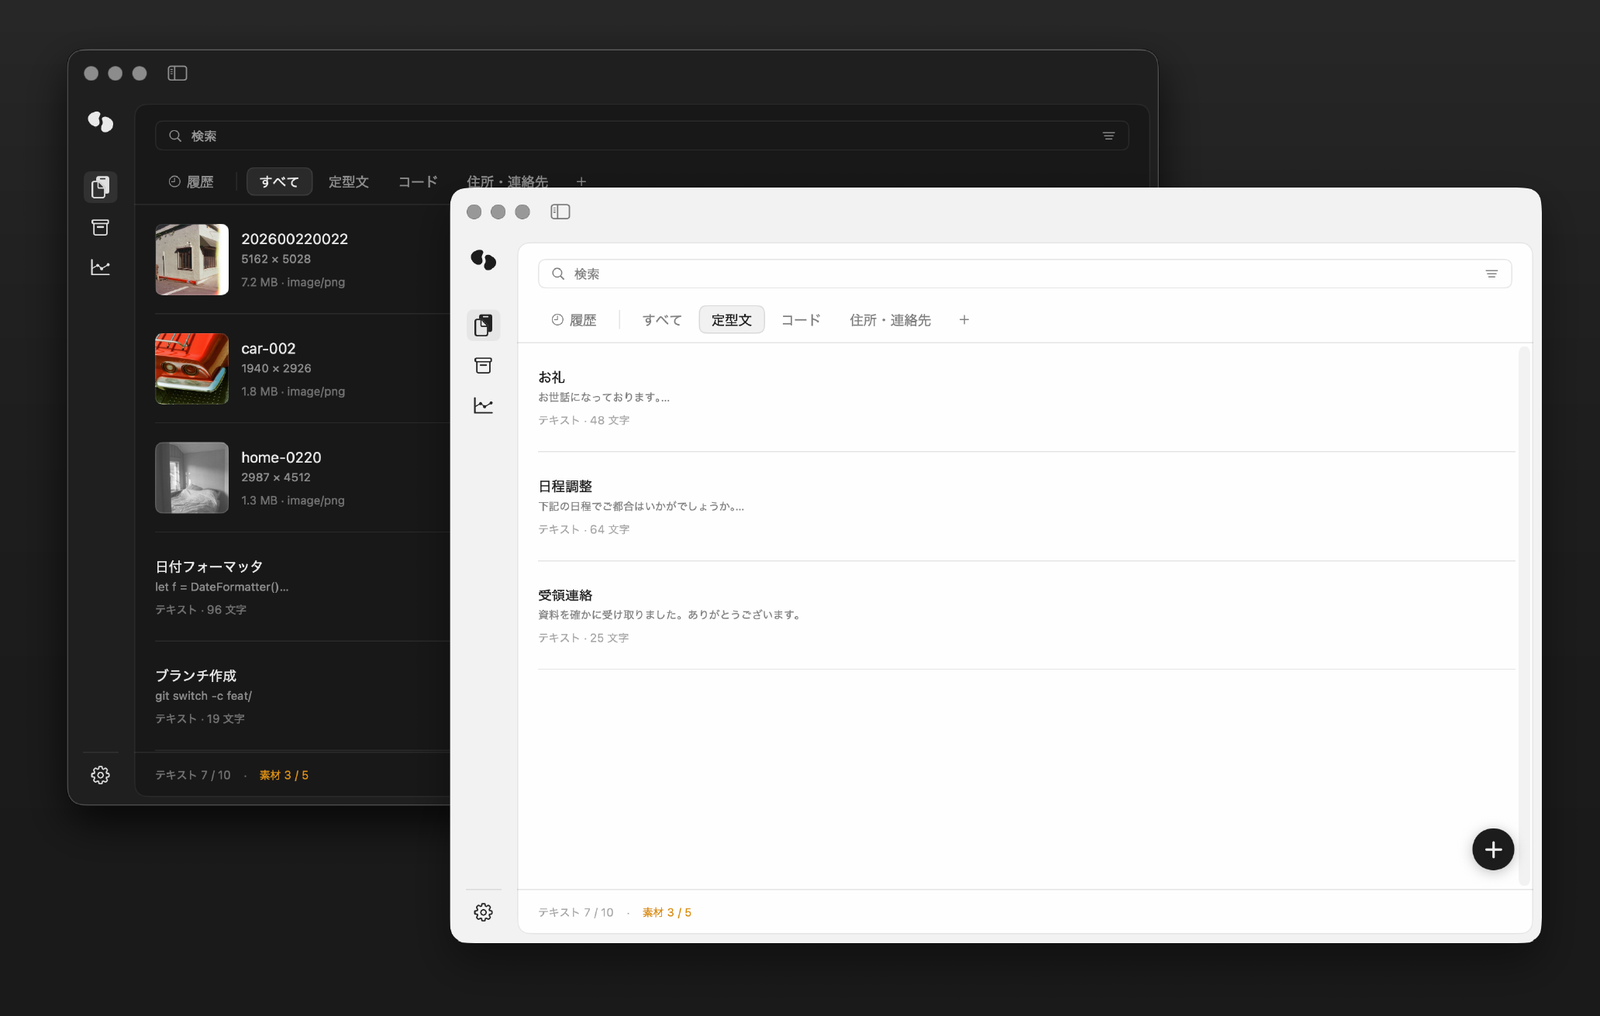
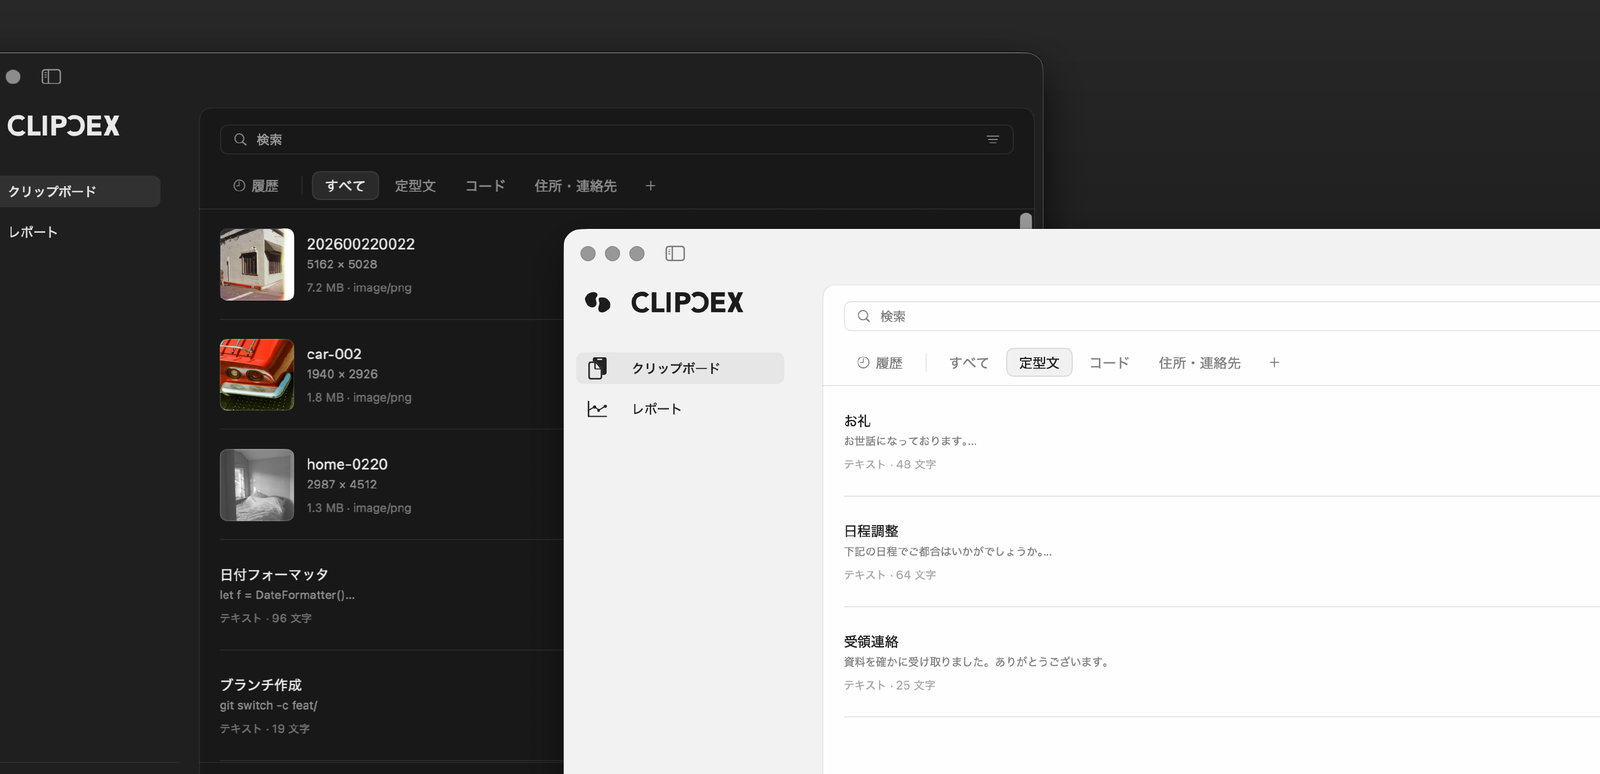
lp: 2.4.5 A' 後の実装に合わせる (存在しない機能の記述と、A' 前のスクショを差し替え)
プライバシー節の案を選ぶ前に LP の全主張を実コードと照合したところ、A' (8/19 決定・
8/21 実装) で App Store 版から消えた機能を LP が売っている状態だった。スクショに至っては
審査で問題になった画面そのもの (サイドバーの「ペースト記録」、カウンタの「ペースト 267」、
「今期間のペースト・内容別」) が写っていた。

画像 6 枚を差し替え
- A' 後の提出パック (docs/release-review/out/shots、8/21 撮影) から tools/lp/crop.py で再生成
- 03 / 05 / 06 は寸法が変わるので width/height 属性も実寸に合わせた
  (1016→774 / 1013→870 / 1016→958。ずれると aspect-ratio の確保幅が狂う)

文言
- レポート見出し「コピーとペーストの傾向を」→「コピーの傾向を」
  (ペースト計測は A' で撤去。提出スクショの焼き込み見出しとも一致)
- facts「コード / URL / 数値 / 自然文の 4 分類」→「コピー数と、運んだ文字数の合計」。
  内容分類は App Store 版に存在しない (ContentClassifier の呼び出しは
  PasteMonitor.swift:52 の 1 箇所のみで、その PasteMonitor は起動されない)
- レポート画像の alt を差し替え後の実際の中身と数値へ (342 件 / 17,274 文字)
- プライバシーのリード文と図のラベル「分類」→「検索」
- ペルソナ 2 件から内容分類由来の訴求を除去 (エンジニア = アプリ別の内訳へ /
  ライター = 「自然文の比率」を落とす)

検証: 「分類 / 自然文 / 内容別 / ペースト 267」の残存 0、img の width/height が
全 6 枚とも実寸と一致、ローカル表示で全画像の表示幅が 530px で揃うことを実測。

diff --git a/index.html b/index.html
@@ -219,7 +219,7 @@
       </ul>
     </div>
     <div class="shot">
-      <img loading="lazy" src="/assets/03-registered.png" width="1600" height="1016"
+      <img loading="lazy" src="/assets/03-registered.png" width="1600" height="774"
            alt="登録したものの一覧。画像素材と定型文が「定型文」「コード」「住所・連絡先」のグループに分かれて並んでいる。">
     </div>
   </div>
@@ -256,7 +256,7 @@
       </ul>
     </div>
     <div class="shot">
-      <img loading="lazy" src="/assets/05-picker.png" width="1600" height="1013"
+      <img loading="lazy" src="/assets/05-picker.png" width="1600" height="870"
            alt="ショートカットキーで呼び出したクイックパネル。画像とテキストが並び、選択中の画像がプレビュー表示されている。">
     </div>
   </div>
@@ -266,18 +266,18 @@
   <div class="wrap feat">
     <div class="feat-txt">
       <p class="eyebrow">REPORT</p>
-      <h2>コピーとペーストの傾向を、<br>期間ごとに確認できる</h2>
+      <h2>コピーの傾向を、<br>期間ごとに確認できる</h2>
       <p class="body">何をどれだけ運んだかが見える。タイムトラッキングはアプリ単位で測りますが、ClipDex は<strong>クリップボード単位</strong>で測ります。開いていた時間ではなく、実際に手を動かして運んだものの記録です。</p>
       <ul class="facts">
         <li>どのアプリから運んだかの内訳</li>
-        <li>コード / URL / 数値 / 自然文の 4 分類</li>
+        <li>コピー数と、運んだ文字数の合計</li>
         <li>曜日 × 時間のヒートマップ</li>
         <li>今日・週次・直近 4 週間・今月・今年の 5 期間（無料版の集計は直近 7 日ぶん）</li>
       </ul>
     </div>
     <div class="shot">
-      <img loading="lazy" src="/assets/06-report.png" width="1600" height="1016"
-           alt="週次レポート。コピー 308 件・ペースト 267 件・16,821 文字の集計と、アプリ別・内容別の内訳バー、曜日と時間のヒートマップが表示されている。">
+      <img loading="lazy" src="/assets/06-report.png" width="1600" height="958"
+           alt="週次レポート。コピー 342 件・17,274 文字の集計と、アプリ別の内訳バー、曜日と時間のヒートマップが表示されている。">
     </div>
   </div>
 </section>
@@ -287,7 +287,7 @@
   <div class="wrap">
     <p class="eyebrow">PRIVACY</p>
     <h2>運んだ記録は、手元から出ない</h2>
-    <p class="body">ClipDex はデータを外部に送信しません。分析サーバも、アカウント登録もありません。集計も分類も、すべてあなたの Mac の中で完結します。</p>
+    <p class="body">ClipDex はデータを外部に送信しません。分析サーバも、アカウント登録もありません。集計も検索も、すべてあなたの Mac の中で完結します。</p>
 
     <div class="diagram">
       <svg viewBox="0 0 520 250" role="img" aria-label="コピーから保存までがあなたの Mac の中で完結し、外へ出ようとする経路が断たれていることを示す図。サーバーへの送信もアカウントもありません。">
@@ -303,7 +303,7 @@
           <text x="93" y="95">コピー</text>
           <rect x="201" y="62" width="118" height="56" rx="9" fill="#2e2e2e" stroke="#565656"/>
           <text x="260" y="88">ClipDex</text>
-          <text x="260" y="106" font-size="11" fill="#9a9a9a">集計・分類</text>
+          <text x="260" y="106" font-size="11" fill="#9a9a9a">集計・検索</text>
           <rect x="368" y="62" width="118" height="56" rx="9" fill="#242424" stroke="#3a3a3a"/>
           <text x="427" y="88">手元のファイル</text>
           <text x="427" y="106" font-size="11" fill="#9a9a9a">Mac の中だけ</text>
@@ -349,9 +349,9 @@
     <p class="eyebrow">WHO</p>
     <h2>こんな人に</h2>
     <div class="who">
-      <div><h3>エンジニア</h3><p>コードやログの断片を並行で抱える人。内容別の内訳で「コード」の比率が見えます。</p></div>
+      <div><h3>エンジニア</h3><p>コードやログの断片を並行で抱える人。アプリ別の内訳で、どのツールから運んだかが見えます。</p></div>
       <div><h3>デザイナー</h3><p>カラーコード・アセットの URL・画像を横断で持ち回る人。画像クリップが効きます。</p></div>
-      <div><h3>ライター・マーケター</h3><p>参考文や見出し案をためておく人。自然文の比率と、手が動く時間帯が見えます。</p></div>
+      <div><h3>ライター・マーケター</h3><p>参考文や見出し案をためておく人。手が動く時間帯が見えます。</p></div>
       <div><h3>サポート・営業</h3><p>定型文をよく使う人。登録しておいて <kbd>Enter</kbd> で貼れます。</p></div>
     </div>
   </div>
